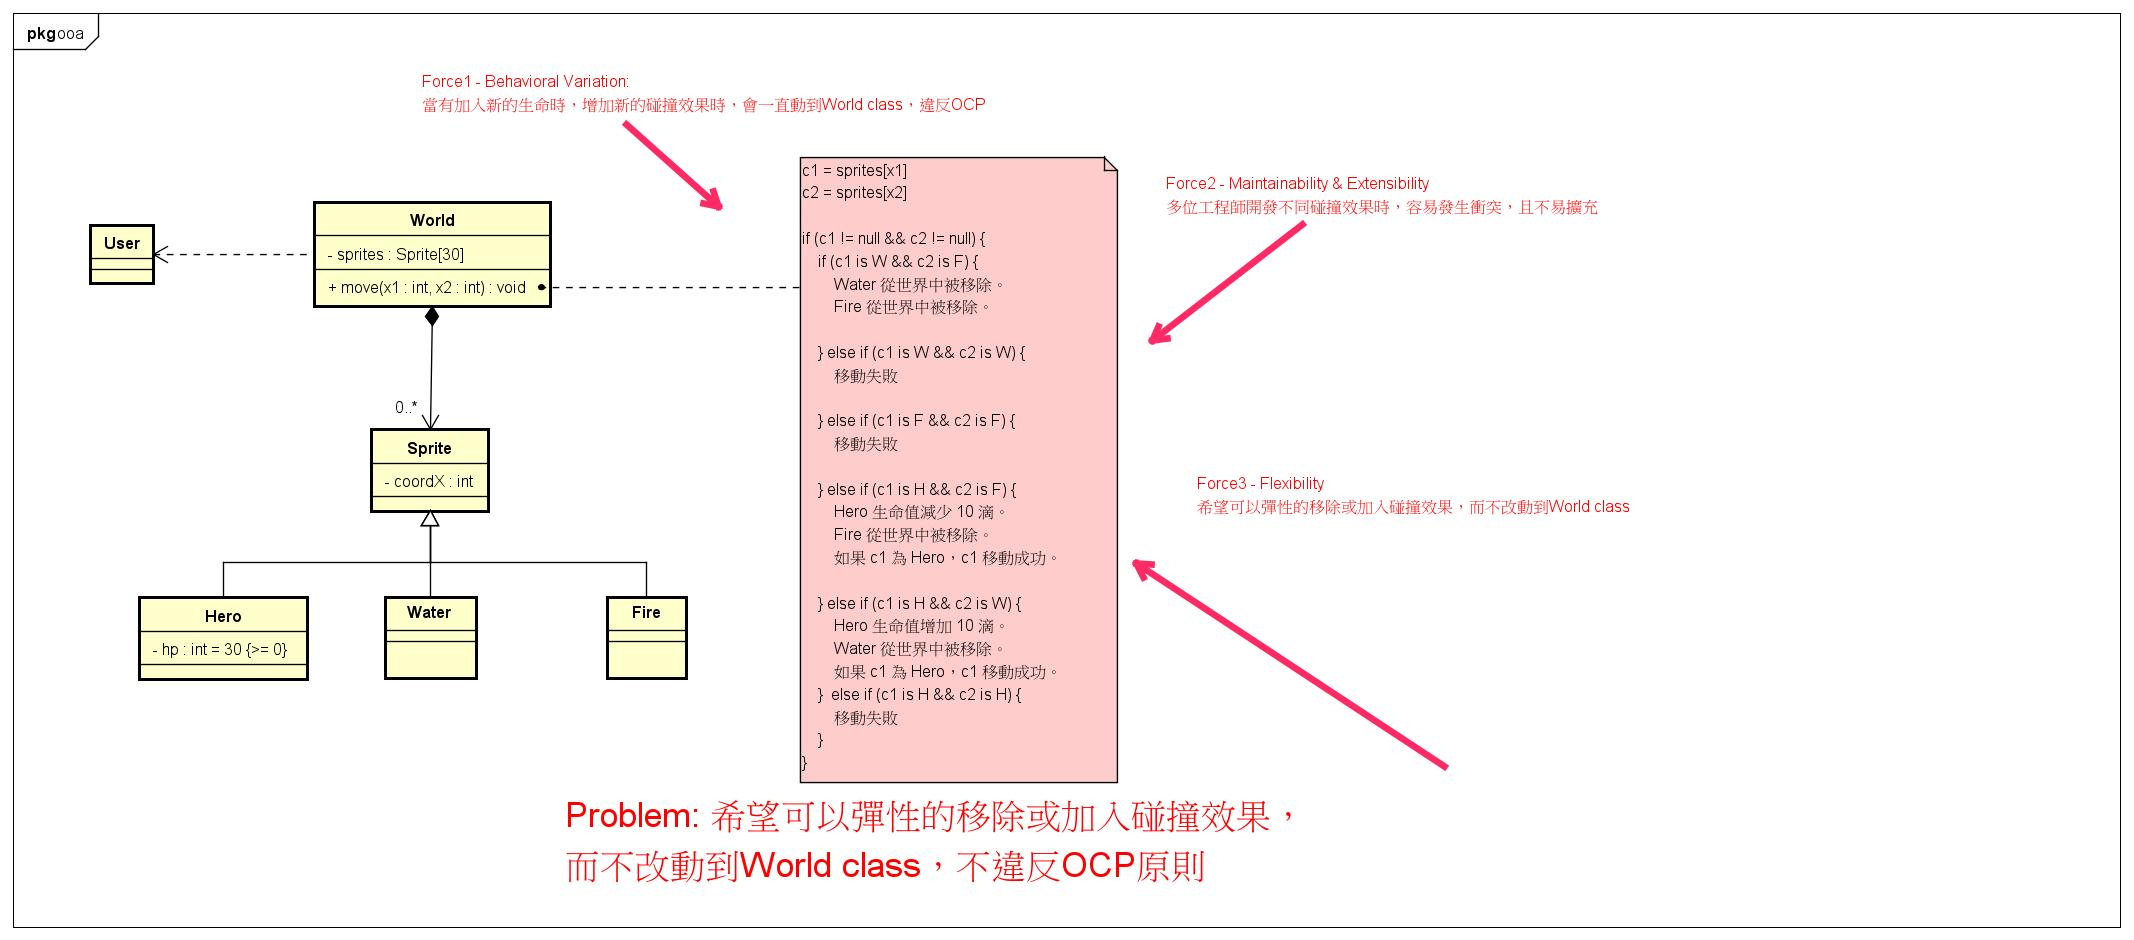
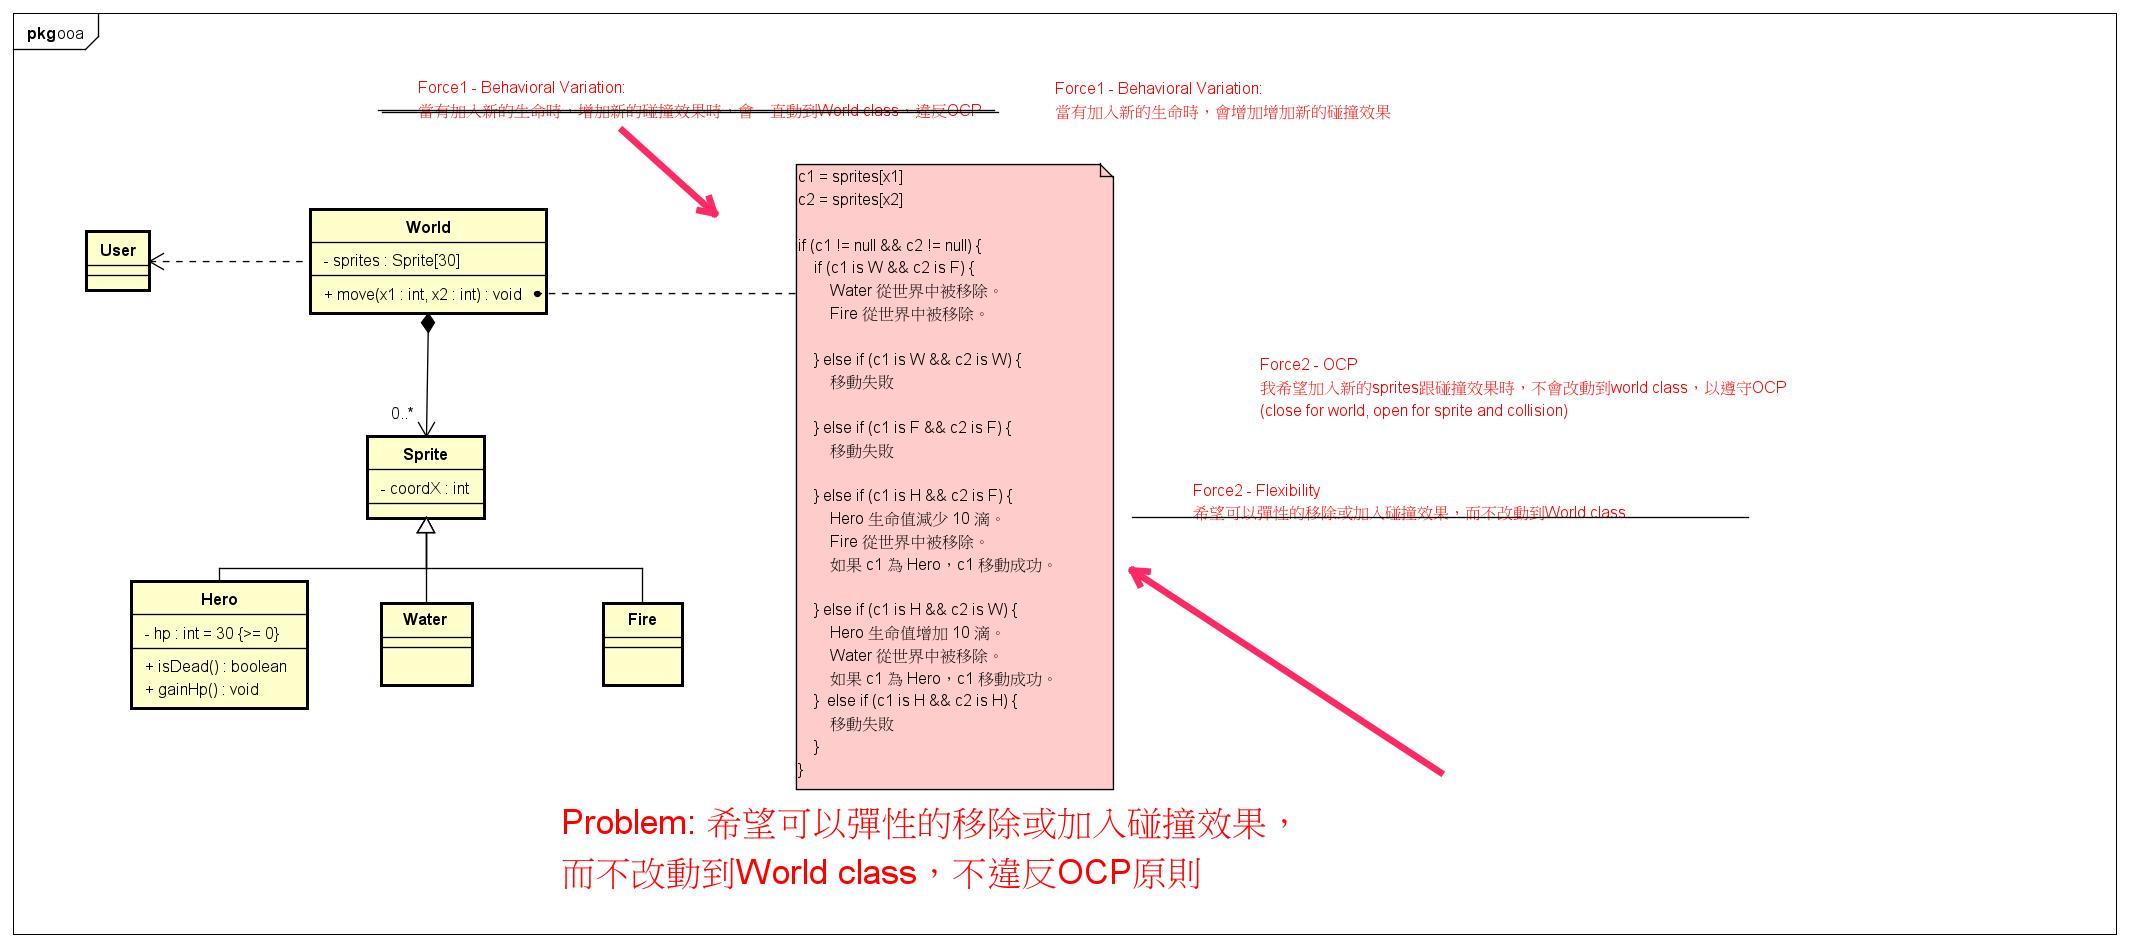
fix: handle same type sprite

diff --git a/src/main/java/com/waterball/ch2/chain_of_responsibility/Main.java b/src/main/java/com/waterball/ch2/chain_of_responsibility/Main.java
@@ -8,19 +8,13 @@ public class Main {
 
     public static void main(String[] args) {
         World world = new World(
-                new DefaultCollisionHandler(
-                    new WaterFireCollisionHandler(
-                            new WaterWaterCollisionHandler(
-                                    new FireFireCollisionHandler(
-                                            new HeroFireCollisionHandler(
-                                                    new HeroHeroCollisionHandler(
-                                                            new HeroWaterCollisionHandler(null)
-                                                    )
-                                            )
-                                    )
+                    new SameSpriteCollisionHandler(
+                            new WaterFireCollisionHandler(
+                                    new HeroFireCollisionHandler(
+                                                new HeroWaterCollisionHandler(null)
+                                        )
                             )
                     )
-                )
         );
 
         Scanner scanner = new Scanner(System.in);

diff --git a/src/main/java/com/waterball/ch2/chain_of_responsibility/handler/SameSpriteCollisionHandler.java b/src/main/java/com/waterball/ch2/chain_of_responsibility/handler/SameSpriteCollisionHandler.java
@@ -1,0 +1,18 @@
+package com.waterball.ch2.chain_of_responsibility.handler;
+
+import com.waterball.ch2.chain_of_responsibility.Sprite;
+
+public class SameSpriteCollisionHandler extends CollisionHandler {
+    public SameSpriteCollisionHandler(CollisionHandler next) {
+        super(next);
+    }
+
+    @Override
+    protected void handleCollision(Sprite c1, Sprite c2, int x1, int x2, Sprite[] sprites) {
+
+        if (c1 != null && c2 != null && c1.toString().equals(c2.toString())) {
+            System.out.println(String.format("Collision between %s and %s. Nothing happens.", c1, c2));
+        }
+    }
+
+}

diff --git a/src/main/java/com/waterball/ch2/chain_of_responsibility/handler/CollisionHandler.java b/src/main/java/com/waterball/ch2/chain_of_responsibility/handler/CollisionHandler.java
@@ -10,12 +10,18 @@ public abstract class CollisionHandler {
     }
 
     public void handle(int x1, int x2, Sprite[] sprites) {
-        handleCollision(x1, x2, sprites);
+        Sprite c1 = sprites[x1];
+        Sprite c2 = sprites[x2];
+
+        handleCollision(c1, c2, x1, x2, sprites);
 
         if (next != null) {
             next.handle(x1, x2, sprites);
         }
     }
 
-    protected abstract void handleCollision(int x1, int x2, Sprite[] sprites);
+    protected abstract void handleCollision(Sprite c1, Sprite c2, int x1, int x2, Sprite[] sprites);
+
+
+
 }

diff --git a/src/main/java/com/waterball/ch2/chain_of_responsibility/handler/WaterFireCollisionHandler.java b/src/main/java/com/waterball/ch2/chain_of_responsibility/handler/WaterFireCollisionHandler.java
@@ -11,9 +11,7 @@ public class WaterFireCollisionHandler extends CollisionHandler {
     }
 
     @Override
-    protected void handleCollision(int x1, int x2, Sprite[] sprites) {
-        Sprite c1 = sprites[x1];
-        Sprite c2 = sprites[x2];
+    protected void handleCollision(Sprite c1, Sprite c2, int x1, int x2, Sprite[] sprites) {
         if ((c1 instanceof Water && c2 instanceof Fire) ||
                 (c1 instanceof Fire && c2 instanceof Water)) {
             System.out.println("Collision between water and fire. Water and fire are destroyed.");

diff --git a/src/main/java/com/waterball/ch2/chain_of_responsibility/handler/HeroFireCollisionHandler.java b/src/main/java/com/waterball/ch2/chain_of_responsibility/handler/HeroFireCollisionHandler.java
@@ -11,10 +11,7 @@ public class HeroFireCollisionHandler extends CollisionHandler {
     }
 
     @Override
-    protected void handleCollision(int x1, int x2, Sprite[] sprites) {
-        Sprite c1 = sprites[x1];
-        Sprite c2 = sprites[x2];
-
+    protected void handleCollision(Sprite c1, Sprite c2, int x1, int x2, Sprite[] sprites) {
 
         if (c1 instanceof Hero && c2 instanceof Fire) {
             System.out.println("Collision between hero and fire. Hero is attacked.");

diff --git a/src/main/java/com/waterball/ch2/chain_of_responsibility/handler/HeroWaterCollisionHandler.java b/src/main/java/com/waterball/ch2/chain_of_responsibility/handler/HeroWaterCollisionHandler.java
@@ -11,9 +11,7 @@ public class HeroWaterCollisionHandler extends CollisionHandler {
     }
 
     @Override
-    protected void handleCollision(int x1, int x2, Sprite[] sprites) {
-        Sprite c1 = sprites[x1];
-        Sprite c2 = sprites[x2];
+    protected void handleCollision(Sprite c1, Sprite c2, int x1, int x2, Sprite[] sprites) {
 
         if (c1 instanceof Hero && c2 instanceof Water) {
             System.out.println("Collision between hero and water. Hero gains hp.");
